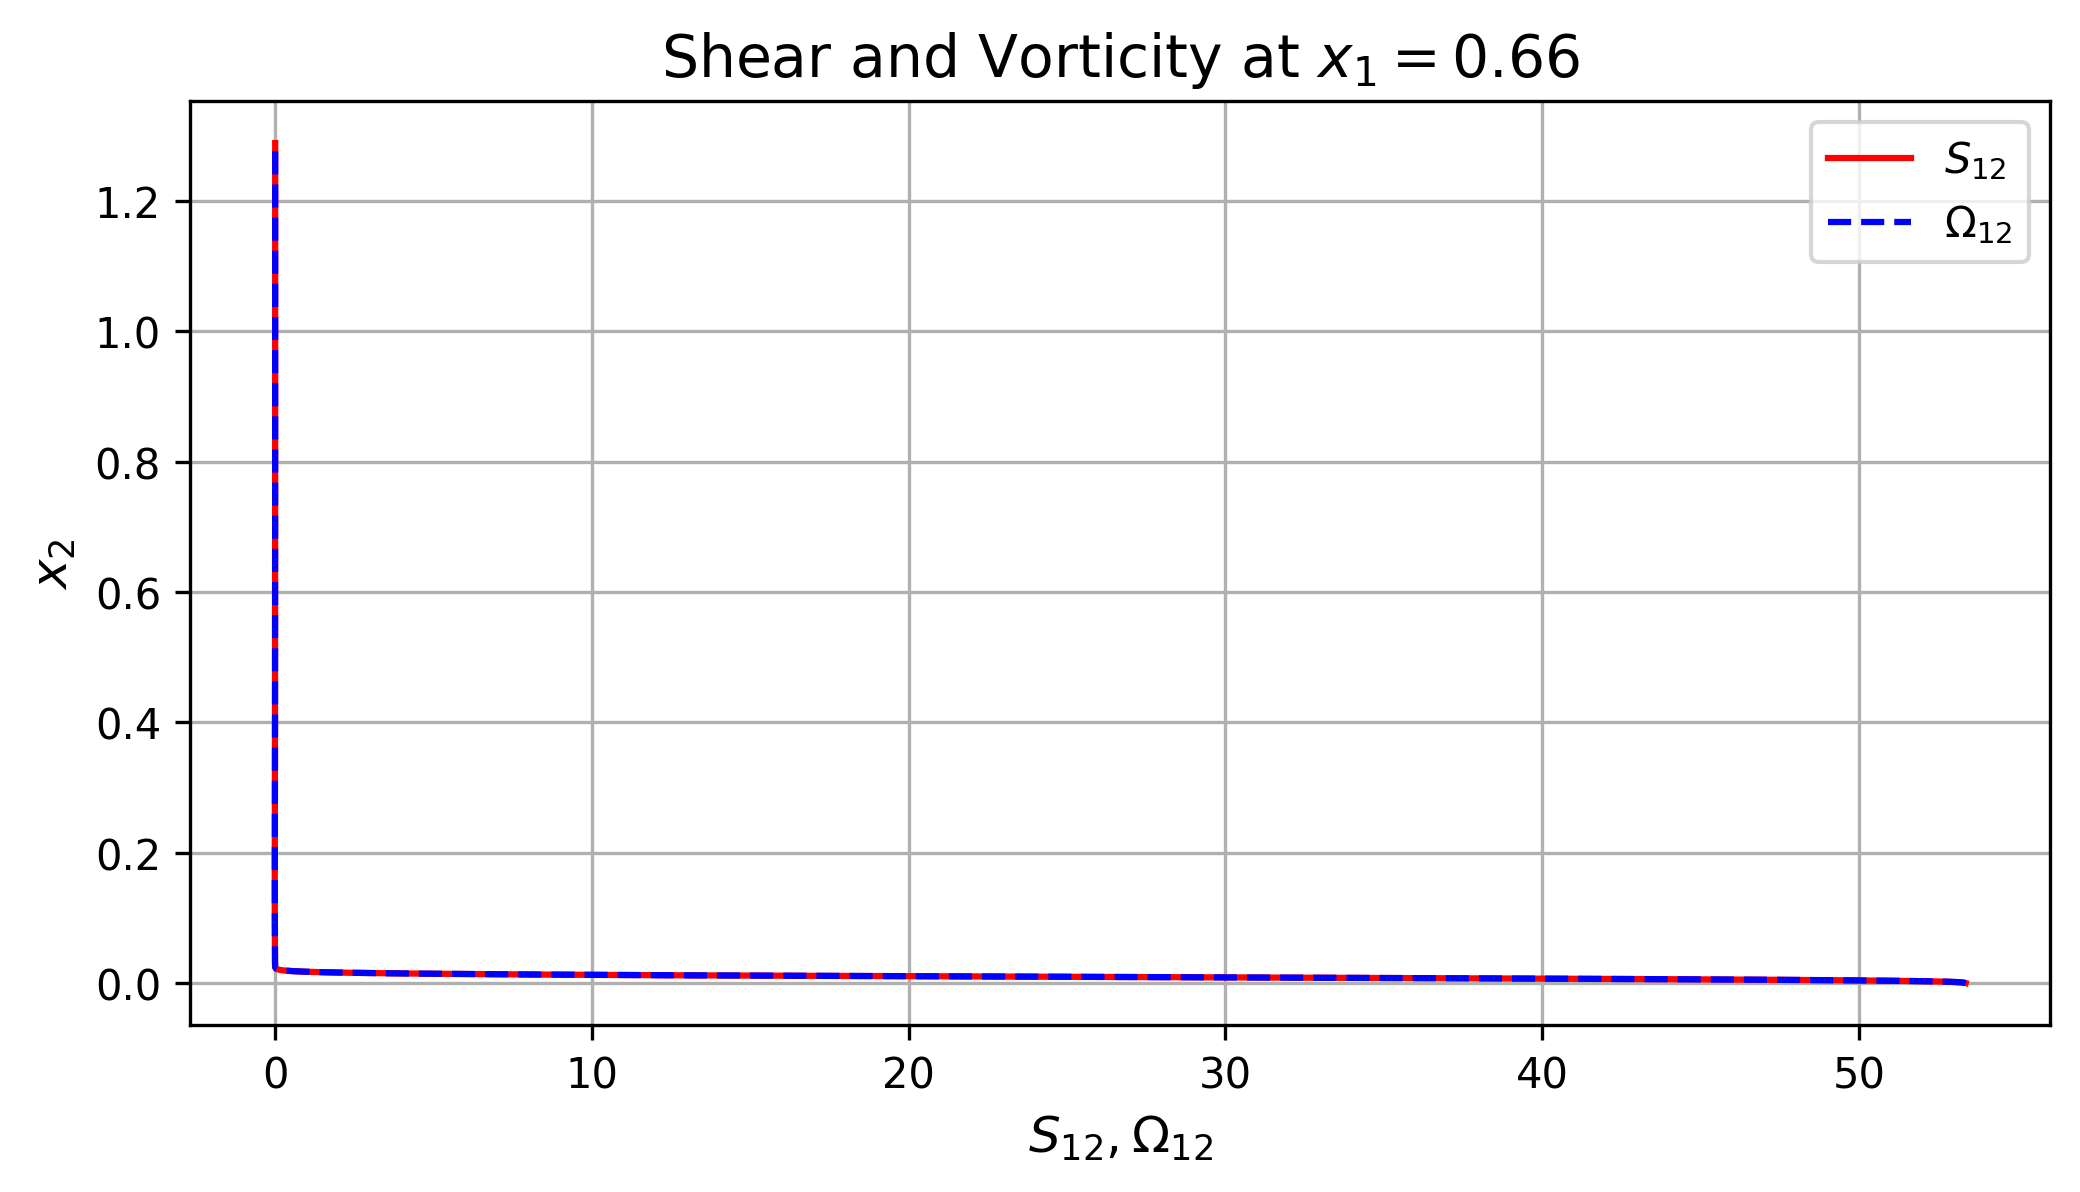
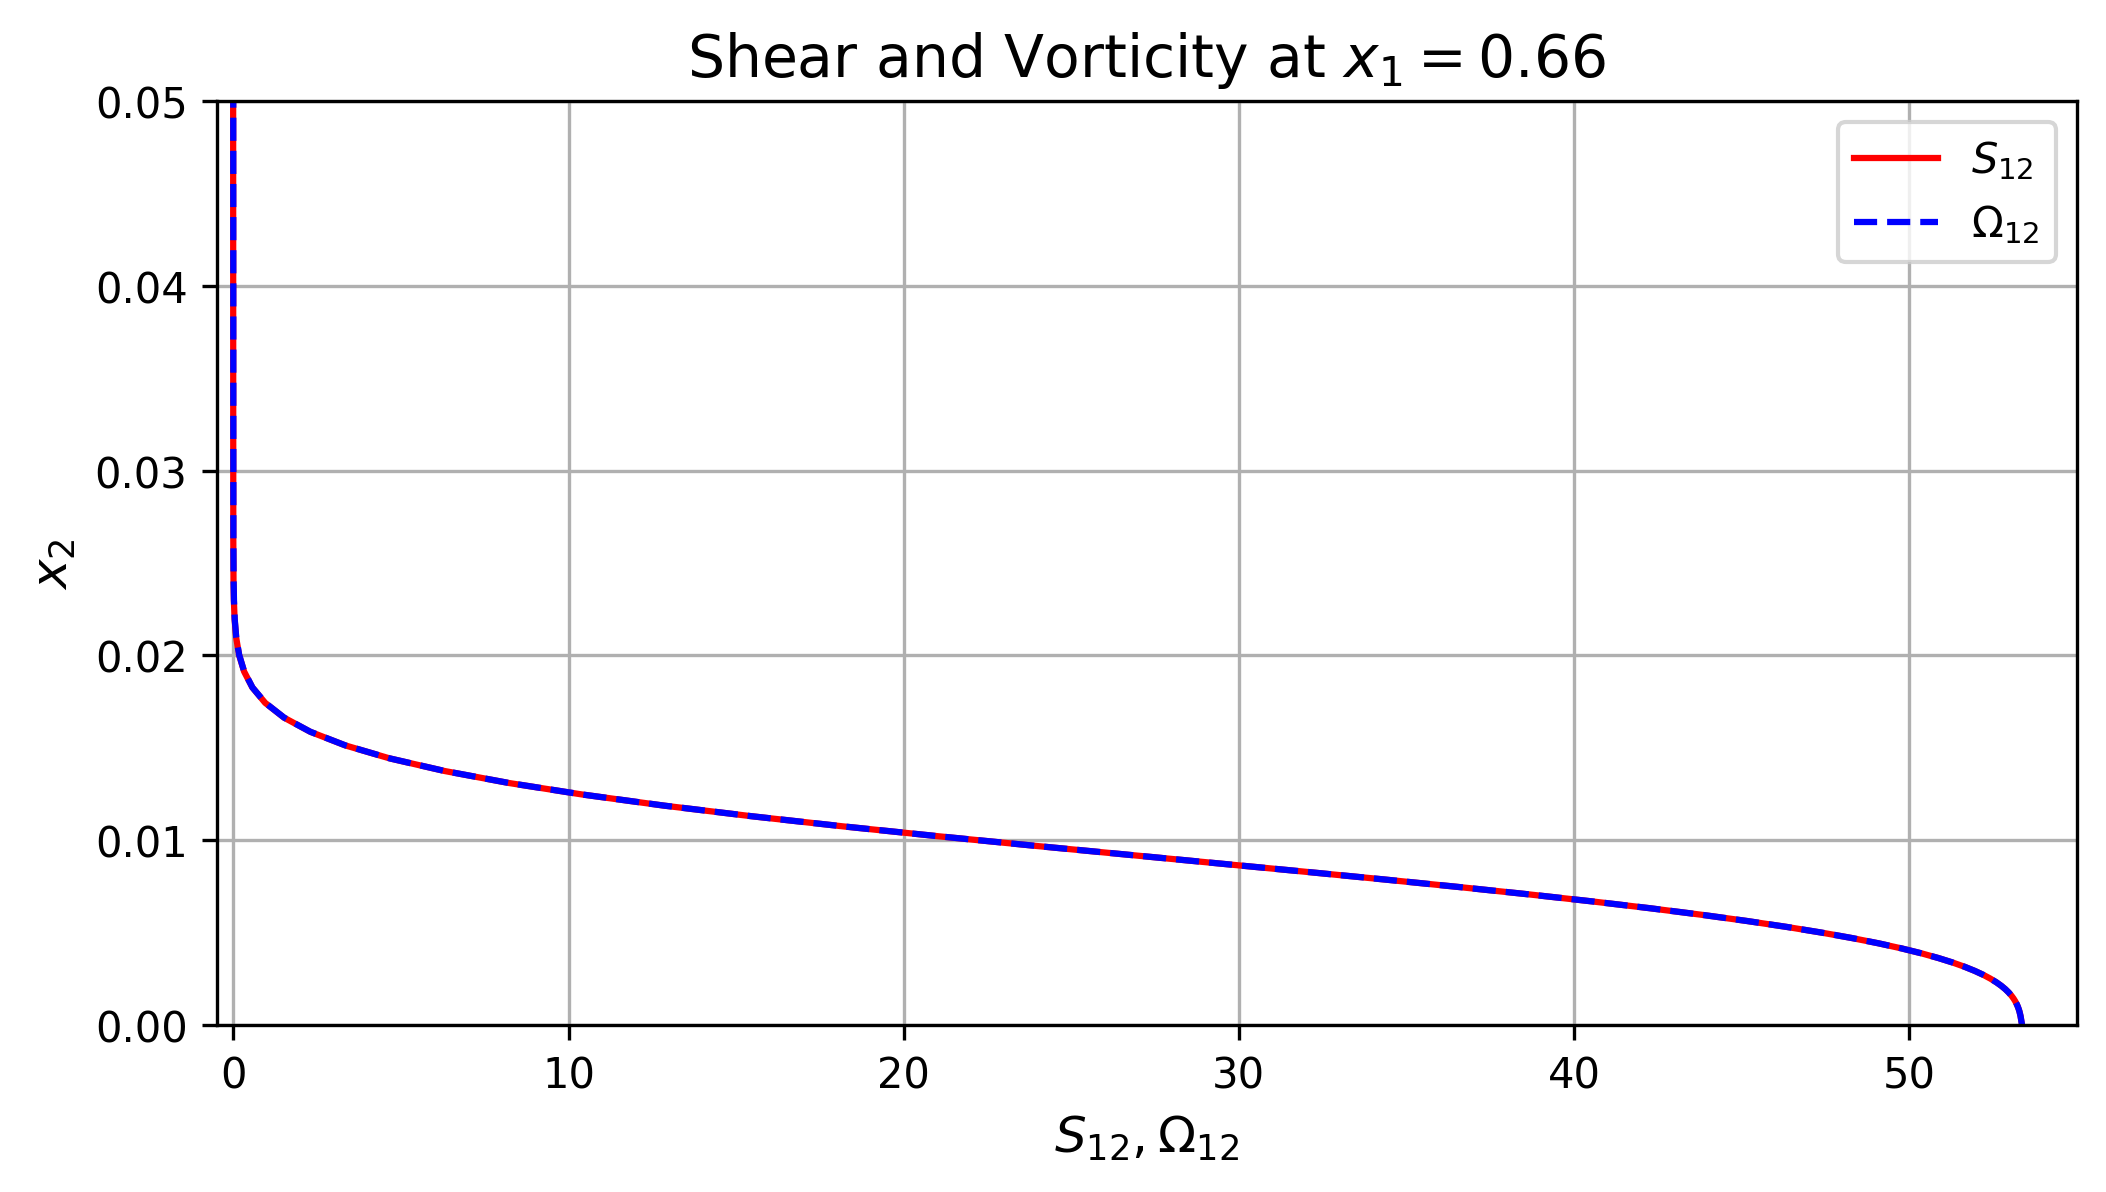
.

diff --git a/TME226/A1 (TME226) - Martin.py b/TME226/A1 (TME226) - Martin.py
@@ -615,7 +615,7 @@ plt.title(fr'Shear and Vorticity at $x_1={xc[i]:.2f}$')
 plt.xlabel('$S_{12}, \\Omega_{12}$')
 plt.ylabel('$x_2$')
 plt.legend()
-# plt.axis([-0.1,0.1,0,1.3])
+plt.axis([-0.5,35,0,0.05])
 plt.grid(True)
 plt.savefig('E6_1', dpi=dpi, bbox_inches='tight')
 plt.show()
@@ -630,7 +630,7 @@ plt.xlabel('$S_{12}, \\Omega_{12}$')
 plt.ylabel('$x_2$')
 plt.legend()
 plt.grid(True)
-# plt.axis([-0.1,0.1,0,1.3])
+plt.axis([-0.5,55,0,0.05])
 plt.savefig('E6_2', dpi=dpi, bbox_inches='tight')
 plt.show()
 
@@ -645,6 +645,30 @@ plt.ylabel('$x_2$')
 plt.legend()
 plt.grid(True)
 plt.savefig('E6_3', dpi=dpi, bbox_inches='tight')
+plt.show()
+
+
+plt.figure()
+i = 170
+
+plt.plot(S12[i,:], yp, 'r-', label='$S_{12}$' + fr', x_1={xc[i]:.2f}')
+plt.plot(Omega12[i,:], yp, 'b--', label='$\Omega_{12}$' + fr', x_1={xc[i]:.2f}')
+
+i = 85
+plt.plot(S12[i,:], yp, 'g-', label='$S_{12}$' + fr', x_1={xc[i]:.2f}')
+plt.plot(Omega12[i,:], yp, 'y--', label='$\Omega_{12}$' + fr', x_1={xc[i]:.2f}')
+
+i = 5
+plt.plot(S12[i,:], yp, 'm-', label='$S_{12}$' + fr', x_1={xc[i]:.2f}')
+plt.plot(Omega12[i,:], yp, 'k--', label='$\Omega_{12}$' + fr', x_1={xc[i]:.2f}')
+
+plt.title(fr'Shear and Vorticity')
+plt.axis([-0.5,55,0,0.04])
+plt.xlabel('$S_{12}, \\Omega_{12}$')
+plt.ylabel('$x_2$')
+plt.legend()
+plt.grid(True)
+plt.savefig('E6_4', dpi=dpi, bbox_inches='tight')
 plt.show()
 
 # %%
